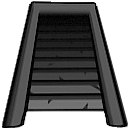
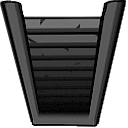
custom Tier 0 stable for map pushing before adding entitites to cls

diff --git a/systems/LevelSystem.js b/systems/LevelSystem.js
@@ -6,8 +6,12 @@ import {
     PositionComponent,
     VisualsComponent,
     ExplorationComponent,
+    LootSourceData,
     WallComponent,
     FloorComponent,
+    StairComponent,
+    PortalComponent,
+    FountainComponent,
     RoomComponent,
     HitboxComponent,
     SpatialBucketsComponent,
@@ -60,7 +64,6 @@ export class LevelSystem extends System {
         const gameState = this.entityManager.getEntity('gameState').getComponent('GameState');
         const isNewGame = gameState.tier === 0;
         this.customLevelSystem.init();
-        this.customLevels = [0]; // Added to flag when LevelSystem should use the custom level system instead of generate Level
         //console.log(`LevelSystem.js: init - Starting with gameState.tier=${gameState.tier}, isNewGame=${isNewGame}`);
 
         // Always create Tier 0 with the custom surface level if it doesn't exist
@@ -153,33 +156,56 @@ export class LevelSystem extends System {
             console.error(`LevelSystem.js: Failed to update map at (${x}, ${y}) on tier ${tier} - mapComp or map position invalid`);
         }
     }
-    
+
     addLevel({ tier, customLevel = null, transitionDirection = null }) {
         if (this.isAddingLevel) {
             console.warn(`LevelSystem.js: addLevel - Re-entrant call detected for tier ${tier}, aborting to prevent loop`);
             return;
         }
         this.isAddingLevel = true;
-        //console.log(`LevelSystem.js: addLevel - Starting for tier ${tier}, transitionDirection: ${transitionDirection}`);
+        console.log(`LevelSystem.js: addLevel - Starting for tier ${tier}, transitionDirection: ${transitionDirection}`);
 
         this.entityManager.setActiveTier(tier);
-        //console.log(`LevelSystem.js: addLevel - Set active tier to ${tier}, active tier: ${this.entityManager.getActiveTier()}`);
+        console.log(`LevelSystem.js: addLevel - Set active tier to ${tier}, active tier: ${this.entityManager.getActiveTier()}`);
         let levelEntity = this.entityManager.getEntitiesWith(['Tier']).find(e => e.getComponent('Tier').value === tier);
 
         if (!levelEntity) {
             levelEntity = this.entityManager.createEntity(`level_${tier}`);
-            //console.log(`LevelSystem.js: Created level entity with ID: ${levelEntity.id} for tier ${tier}`);
+            console.log(`LevelSystem.js: Created level entity with ID: ${levelEntity.id} for tier ${tier}`);
             this.entityManager.addComponentToEntity(levelEntity.id, { type: 'Tier', value: tier });
 
             let levelData;
-            if (customLevel != null || tier === 0) {
-                
-                if (customLevel == null && tier === 0) {
-                    //console.log(`LevelSystem.js: Generating Tier 0 with generateSurfaceLevel`);
-                    customLevel = this.generateCustomLevel(levelEntity);
-                } else {
-                    //console.log(`LevelSystem.js: Using provided customLevel for tier ${tier}`);
-                }
+            if (tier === 0) {
+                console.log(`LevelSystem.js: Loading custom level for tier 0 via CustomLevelSystem`);
+                this.customLevelSystem.loadCustomLevel(tier, levelEntity).then(levelData => {
+                    levelData.isCustomLevel = true;
+                    console.log(`LevelSystem.js: addLevel - Adjusting player position for tier ${tier}, transitionDirection: ${transitionDirection}`);
+                    this.adjustPlayerPosition(levelEntity, transitionDirection === 'down' ? levelData.stairsUp : (levelData.stairsDown || levelData.stairsUp));
+
+                    const gameState = this.entityManager.getEntity('gameState').getComponent('GameState');
+                    gameState.needsInitialRender = true;
+                    gameState.needsRender = true;
+
+                    const ercPasses = 3;
+                    for (let i = 0; i < ercPasses; i++) {
+                        this.ensureRoomConnections(levelEntity);
+                    }
+                    this.checkLevelAfterTransitions({ tier, levelEntity });
+
+                    const mapComponent = levelEntity.getComponent('Map');
+                    if (mapComponent && mapComponent.stairsDown) {
+                        this.eventBus.emit('LevelAdded', { tier, entityId: levelEntity.id });
+                    } else {
+                        console.error(`LevelSystem.js: Invalid MapComponent for tier ${tier}`);
+                    }
+                    this.isAddingLevel = false;
+                }).catch(error => {
+                    console.error(`LevelSystem.js: Failed to load custom level for tier ${tier}:`, error);
+                    this.isAddingLevel = false;
+                });
+                return; // Exit early, as CustomLevelSystem handles the rest asynchronously
+            } else if (customLevel != null) {
+                console.log(`LevelSystem.js: Using provided customLevel for tier ${tier}`);
                 levelData = customLevel;
                 levelData.isCustomLevel = true;
                 const mapComp = new MapComponent(levelData);
@@ -202,23 +228,22 @@ export class LevelSystem extends System {
                 this.entityManager.addComponentToEntity(levelEntity.id, entityListComp);
                 this.entityManager.addComponentToEntity(levelEntity.id, new ExplorationComponent());
                 this.entityManager.addComponentToEntity(levelEntity.id, new SpatialBucketsComponent());
-                //console.log(`LevelSystem.js: addLevel - Adjusting player position for tier ${tier}, transitionDirection: ${transitionDirection}`);
+                console.log(`LevelSystem.js: addLevel - Adjusting player position for tier ${tier}, transitionDirection: ${transitionDirection}`);
                 this.adjustPlayerPosition(levelEntity, transitionDirection === 'down' ? levelData.stairsUp : (levelData.stairsDown || levelData.stairsUp));
             } else {
-
-                const journeyBossLevels = [3,6]
+                // ... (procedural level generation remains unchanged)
+                const journeyBossLevels = [3, 6];
                 let hasBossRoom = false;
 
                 switch (true) {
                     case (tier - this.lastBossTier >= this.BOSS_ROOM_EVERY_X_LEVELS):
-                    case (Math.random() < 0.05) :
+                    case (Math.random() < 0.05):
                     case journeyBossLevels.includes(tier):
                         hasBossRoom = true;
                         break;
                     default:
                         hasBossRoom = false;
                         break;
-
                 }
 
                 this.sfxQueue.push({ sfx: 'bossLevel0', volume: 0.5 });
@@ -232,7 +257,7 @@ export class LevelSystem extends System {
                     treasures: [],
                     fountains: [],
                     rooms: [],
-                    npcs: [] // Initialize npcs array
+                    npcs: []
                 });
                 this.entityManager.addComponentToEntity(levelEntity.id, entityList);
                 this.entityManager.addComponentToEntity(levelEntity.id, new ExplorationComponent());
@@ -252,7 +277,7 @@ export class LevelSystem extends System {
                 entityList.treasures = this.generateLootEntities(tier, levelData.map, levelData.roomEntityIds);
                 mapComp.stairsUp = levelData.stairsUp;
                 mapComp.stairsDown = levelData.stairsDown;
-                //console.log(`LevelSystem.js: addLevel - Adjusting player position for tier ${tier}, transitionDirection: ${transitionDirection}`);
+                console.log(`LevelSystem.js: addLevel - Adjusting player position for tier ${tier}, transitionDirection: ${transitionDirection}`);
                 this.adjustPlayerPosition(levelEntity, transitionDirection === 'down' ? levelData.stairsUp : levelData.stairsDown);
                 if (hasBossRoom) this.lastBossTier = tier;
 
@@ -291,9 +316,8 @@ export class LevelSystem extends System {
             }
         }
         this.isAddingLevel = false;
-        //console.log(`LevelSystem.js: addLevel - Completed for tier ${tier}`);
+        console.log(`LevelSystem.js: addLevel - Completed for tier ${tier}`);
     }
-    
 
     generateLevel(hasBossRoom, tier, levelEntityId) {
         //console.log(`LevelSystem.js: generateLevel - Starting for tier ${tier}, hasBossRoom: ${hasBossRoom}`);
@@ -1143,111 +1167,6 @@ export class LevelSystem extends System {
         return levelData;
     }
 
-    
-    generateCustomLevel(levelEntity) {
-        //console.log(`LevelSystem.js: generateSurfaceLevel - Starting for tier 0`);
-        const width = this.state.WIDTH;
-        const height = this.state.HEIGHT;
-        const map = Array(height).fill().map(() => Array(width).fill('#'));
-        const walls = [];
-        const floors = [];
-        const stairs = [];
-        const npcs = [];
-        const shopCounters = [];
-       
-        const tier = 0;
-        const stairPos = { upX: 14, upY: 8, downX: 3, downY: 8 }
-
-        for (let y = 1; y <= 9; y++) {
-            for (let x = 1; x <= 19; x++) {
-                map[y][x] = ' ';
-                const floorId = `floor_0_floor_${y}_${x}`;
-                const floorEntity = this.entityManager.createEntity(floorId);
-                this.entityManager.addComponentToEntity(floorEntity.id, new PositionComponent(x * this.TILE_SIZE, y * this.TILE_SIZE));
-                this.entityManager.addComponentToEntity(floorEntity.id, new FloorComponent());
-                floors.push(floorEntity.id);
-            }
-        }
-
-        for (let y = 0; y <= 10; y++) {
-            for (let x = 0; x <= 20; x++) {
-                if (y === 0 || y === 10 || x === 0 || x === 20) {
-                    const wallId = `wall_0_wall_${y}_${x}`;
-                    const wallEntity = this.entityManager.createEntity(wallId);
-                    const pixelX = x * this.TILE_SIZE;
-                    const pixelY = y * this.TILE_SIZE;
-                    this.entityManager.addComponentToEntity(wallEntity.id, new PositionComponent(pixelX, pixelY));
-                    this.entityManager.addComponentToEntity(wallEntity.id, new WallComponent());
-                    this.entityManager.addComponentToEntity(wallEntity.id, new VisualsComponent(this.TILE_SIZE, this.TILE_SIZE));
-                    const visuals = wallEntity.getComponent('Visuals');
-                    visuals.avatar = 'img/map/wall.png';
-                    this.entityManager.addComponentToEntity(wallEntity.id, new HitboxComponent(this.TILE_SIZE, this.TILE_SIZE));
-                    walls.push(wallEntity.id);
-                }
-            }
-        }
-
-        // Create a single room entity for the surface level
-        const roomEntityId = 'room_0_surface';
-        const roomEntity = this.entityManager.createEntity(roomEntityId);
-        
-        this.entityManager.addComponentToEntity(roomEntityId, new RoomComponent({
-            left: 1,
-            top: 1,
-            width: 13,
-            height: 9,
-            type: 'SurfaceRoom',
-            centerX: 1 + Math.floor(13 / 2),
-            centerY: 1 + Math.floor(9 / 2),
-            connections: []
-        }));
-        const roomEntityIds = [roomEntity.id] || [];
-
-        const levelData = {
-            map: map,
-            walls: walls,
-            floors: floors,
-            stairs: stairs,
-            npcs: npcs,
-            shopCounters : shopCounters,
-            stairsDown: { x: stairPos.downX, y: stairPos.downY },
-            stairsUp:  { x: stairPos.upX, y: stairPos.upY },
-            roomEntityIds: roomEntityIds,
-        };
-
-        const mapComp = new MapComponent(levelData);
-        this.entityManager.addComponentToEntity(levelEntity.id, mapComp);
-        //console.log(`LevelSystem.js: Added MapComponent to ${levelEntity.id} during generateSurfaceLevel`);
-
-        const entityList = levelEntity.getComponent('EntityList');
-        entityList.walls = walls;
-        entityList.floors = floors;
-        entityList.stairs = stairs;
-        entityList.npcs = npcs;
-        entityList.shopCounters = shopCounters;
-        //console.log(`LevelSystem.js: Updated EntityListComponent for ${levelEntity.id} in generateSurfaceLevel`);
-       
-       
-        const stairUpEntity = this.generateStairEntity(levelData, entityList, tier, roomEntityId, 'up', stairPos.upX, stairPos.upY, true);
-        const stairDownEntity = this.generateStairEntity(levelData, entityList, tier, roomEntityId, 'down', stairPos.downX, stairPos.downY, true);
-        
-        
-        this.eventBus.emit('SpawnNPCs', {
-            tier: 0,
-            npcs: [
-                { id: 'sehnrhyx_syliri', x: 8, y: 3 },
-                { id: 'shop_keeper', x: 8, y: 8 }
-            ]
-        });
-        const portalPos = { x: 16, y: 2 };
-        const portalEntity = this.generatePortal(entityList, tier, mapComp, portalPos.x, portalPos.y);
-        const shopCounterPos = { x: 7, y: 8 };
-        const shopCounterEntity = this.generateShopCounter(entityList, tier, mapComp, shopCounterPos.x, shopCounterPos.y);
-
-        //console.log(`LevelSystem.js: generateSurfaceLevel - Completed for tier 0`);
-        return levelData;
-    }
-    
     padMap(map, walls = [], floors = [], tier = 0) {
         //console.log(`LevelSystem.js: padMap - Starting for tier ${tier}`);
         const padded = Array.from({ length: this.state.HEIGHT }, () => Array(this.state.WIDTH).fill('#'));

diff --git a/systems/CustomLevelSystem.js b/systems/CustomLevelSystem.js
@@ -13,11 +13,7 @@ import {
     ExplorationComponent,
     SpatialBucketsComponent,
     HitboxComponent,
-    RoomComponent,
-
-
-
-
+    RoomComponent
 } from '../core/Components.js';
 
 export class CustomLevelSystem extends System {
@@ -74,12 +70,12 @@ export class CustomLevelSystem extends System {
         const shopCounters = [];
         const portals = [];
 
-        const tileLayer = jsonData.layers.find(layer => layer.type === 'tilelayer');
-        if (!tileLayer) {
-            throw new Error('No tile layer found in JSON');
+        const mapTileLayer = jsonData.layers.find(layer => layer.name === 'Map');
+        if (!mapTileLayer) {
+            throw new Error('No map tile layer found in JSON');
         }
 
-        const data = tileLayer.data;
+        const data = mapTileLayer.data;
         for (let y = 0; y < height; y++) {
             for (let x = 0; x < width; x++) {
                 const tileId = data[y * width + x];
@@ -120,8 +116,8 @@ export class CustomLevelSystem extends System {
         }
 
         // Hardcode special entities
-        const stairPos = { upX: 34, upY: 28, downX: 23, downY: 28 };
-        const portalPos = { x: 36, y: 22 };
+        const stairPos = { upX: 23, upY: 19, downX: 23, downY: 29 };
+        const portalPos = { x: 28, y: 18 };
         const shopCounterPos = { x: 27, y: 28 };
         const roomEntityId = `room_${tier}_surface`;
         const roomEntity = this.entityManager.createEntity(roomEntityId);

diff --git a/systems/MapRenderSystem.js b/systems/MapRenderSystem.js
@@ -89,7 +89,7 @@ export class MapRenderSystem extends System {
             wall: 'img/map/wall.png',
             player: 'img/avatars/player.png',
             stairsup: 'img/avatars/stairsup.png',
-            stairsdown: 'img/avatars/stairsdown.png',
+            stairsdown: 'img/avatars/starisdown.png',
             portal: 'img/anim/Portal-Animation.png',
             inactivePortal: 'img/avatars/inactive-portal.png',
             cleansedPortal: 'img/anim/Portal-Animation-Cleansed.png',
